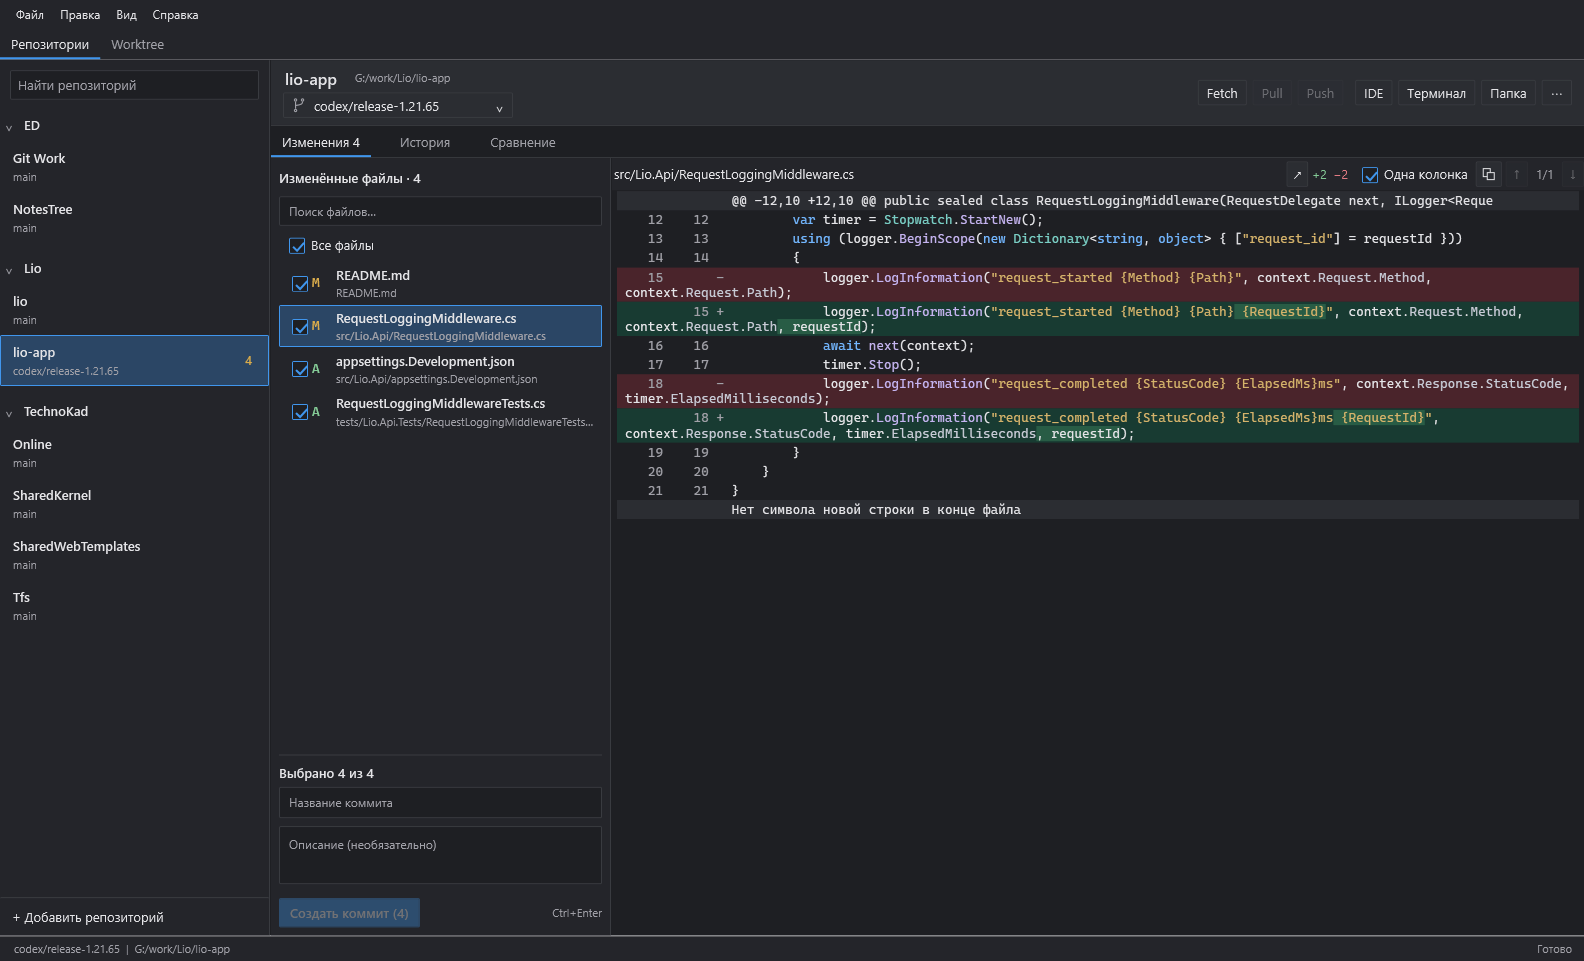
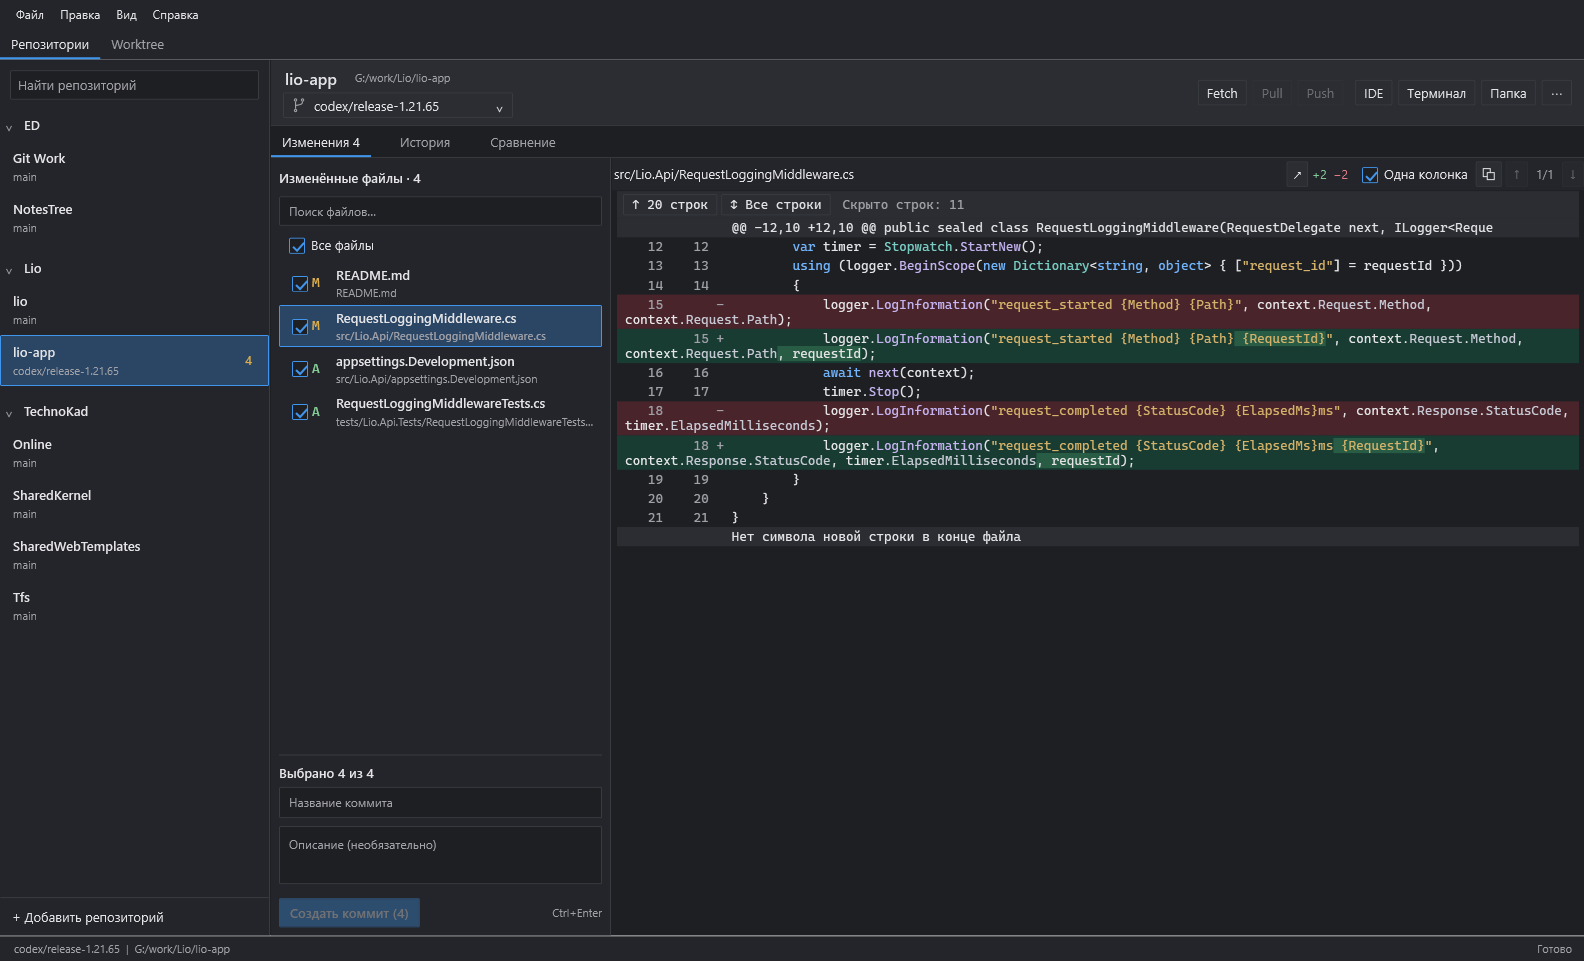
Unify file list presentation across Git views in 0.3.5

Changed region(s): [[0.3712, 0.1873, 1.0, 0.5307], [0.464, 0.5307, 0.6496, 0.5619]]

diff --git a/src/GitWork.App/BranchComparisonView.xaml b/src/GitWork.App/BranchComparisonView.xaml
@@ -32,7 +32,7 @@
     </DockPanel>
     <Grid Grid.Row="3">
       <Grid.ColumnDefinitions>
-        <ColumnDefinition Width="250" MinWidth="180" />
+        <ColumnDefinition Width="320" MinWidth="250" />
         <ColumnDefinition Width="7" />
         <ColumnDefinition Width="*" MinWidth="200" />
       </Grid.ColumnDefinitions>
@@ -60,13 +60,8 @@
           </TextBlock>
         </Grid>
         <Grid Grid.Row="2">
-          <ListBox x:Name="FilesList" SelectionChanged="FilesList_SelectionChanged" AutomationProperties.Name="{local:Loc 'Изменённые между ветками файлы'}" VirtualizingPanel.IsVirtualizingWhenGrouping="True" VirtualizingPanel.IsVirtualizing="True" ScrollViewer.CanContentScroll="True">
-            <ListBox.ItemContainerStyle><Style TargetType="ListBoxItem" BasedOn="{StaticResource FileRow}"><Setter Property="Tag" Value="{Binding StatusDescription}" /></Style></ListBox.ItemContainerStyle>
-            <ListBox.ItemTemplate>
-              <DataTemplate>
-                <TextBlock Text="{Binding DisplayPath}" TextWrapping="Wrap" />
-              </DataTemplate>
-            </ListBox.ItemTemplate>
+          <ListBox x:Name="FilesList" SelectionChanged="FilesList_SelectionChanged" ItemTemplate="{StaticResource ChangedFileTemplate}" AutomationProperties.Name="{local:Loc 'Изменённые между ветками файлы'}" VirtualizingPanel.IsVirtualizingWhenGrouping="True" VirtualizingPanel.IsVirtualizing="True" ScrollViewer.CanContentScroll="True">
+            <ListBox.ItemContainerStyle><Style TargetType="ListBoxItem" BasedOn="{StaticResource FileRow}"><Setter Property="Tag" Value="{Binding StatusDescription}" /><Setter Property="ToolTip" Value="{Binding DisplayPath}" /></Style></ListBox.ItemContainerStyle>
           </ListBox>
           <TextBlock x:Name="EmptyFilesText" Text="{local:Loc 'Нет изменений файлов'}" Foreground="{DynamicResource MutedBrush}" Margin="12" Visibility="Collapsed" IsHitTestVisible="False" />
         </Grid>

diff --git a/src/GitWork.App/ChangesView.xaml b/src/GitWork.App/ChangesView.xaml
@@ -24,13 +24,9 @@
             <ListBox.ItemTemplate>
               <DataTemplate>
                 <Grid>
-                  <Grid.ColumnDefinitions><ColumnDefinition Width="26" /><ColumnDefinition Width="24" /><ColumnDefinition /></Grid.ColumnDefinitions>
+                  <Grid.ColumnDefinitions><ColumnDefinition Width="26" /><ColumnDefinition /></Grid.ColumnDefinitions>
                   <CheckBox IsChecked="{Binding IsIncluded,Mode=TwoWay,UpdateSourceTrigger=PropertyChanged}" VerticalAlignment="Center" ToolTip="{local:Loc 'Включить файл целиком в коммит'}" AutomationProperties.Name="{Binding File.DisplayPath}" />
-                  <TextBlock Grid.Column="1" Text="{Binding StatusCode}" FontFamily="Consolas" FontSize="14" FontWeight="SemiBold" VerticalAlignment="Center" />
-                  <StackPanel Grid.Column="2" VerticalAlignment="Center">
-                    <TextBlock Text="{Binding FileName}" Foreground="{DynamicResource TextBrush}" FontSize="13" FontWeight="SemiBold" TextWrapping="NoWrap" TextTrimming="CharacterEllipsis" />
-                    <TextBlock Text="{Binding File.DisplayPath}" Foreground="{DynamicResource MutedBrush}" FontSize="11" Margin="0,2,0,0" TextWrapping="NoWrap" TextTrimming="CharacterEllipsis" />
-                  </StackPanel>
+                  <ContentControl Grid.Column="1" Content="{Binding File}" ContentTemplate="{StaticResource ChangedFileTemplate}" />
                 </Grid>
               </DataTemplate>
             </ListBox.ItemTemplate>

diff --git a/src/GitWork.App/App.xaml b/src/GitWork.App/App.xaml
@@ -315,6 +315,16 @@
           </Setter.Value>
         </Setter>
       </Style>
+      <DataTemplate x:Key="ChangedFileTemplate">
+        <Grid ToolTip="{Binding DisplayPath}">
+          <Grid.ColumnDefinitions><ColumnDefinition Width="24" /><ColumnDefinition /></Grid.ColumnDefinitions>
+          <TextBlock Text="{Binding StatusCode}" Foreground="{Binding Foreground,RelativeSource={RelativeSource AncestorType=ListBoxItem}}" FontFamily="Consolas" FontSize="14" FontWeight="SemiBold" VerticalAlignment="Center" />
+          <StackPanel Grid.Column="1" VerticalAlignment="Center">
+            <TextBlock Text="{Binding FileName}" Foreground="{DynamicResource TextBrush}" FontSize="13" FontWeight="SemiBold" TextWrapping="NoWrap" TextTrimming="CharacterEllipsis" />
+            <TextBlock Text="{Binding DisplayPath}" Foreground="{DynamicResource MutedBrush}" FontSize="11" Margin="0,2,0,0" TextWrapping="NoWrap" TextTrimming="CharacterEllipsis" />
+          </StackPanel>
+        </Grid>
+      </DataTemplate>
       <Style x:Key="FileRow" TargetType="ListBoxItem" BasedOn="{StaticResource {x:Type ListBoxItem}}">
         <Setter Property="Padding" Value="6,3" />
         <Setter Property="Margin" Value="0,0,0,1" />

diff --git a/src/GitWork.App/GitHistoryView.xaml b/src/GitWork.App/GitHistoryView.xaml
@@ -199,14 +199,7 @@
                   <Setter Property="Margin" Value="0" />
                 </Style>
               </ListBox.ItemContainerStyle>
-              <ListBox.ItemTemplate>
-                <DataTemplate>
-                  <DockPanel ToolTip="{Binding DisplayPath}">
-                    <Border DockPanel.Dock="Left" Background="{DynamicResource AccentSurfaceBrush}" Padding="3,0" Margin="0,0,5,0" VerticalAlignment="Top"><TextBlock Text="{Binding StatusCode}" Foreground="{DynamicResource AccentBrush}" FontSize="10" FontWeight="SemiBold" /></Border>
-                    <TextBlock Text="{Binding DisplayPath}" TextWrapping="NoWrap" TextTrimming="CharacterEllipsis" FontSize="12" />
-                  </DockPanel>
-                </DataTemplate>
-              </ListBox.ItemTemplate>
+              <ListBox.ItemTemplate><DataTemplate><ContentControl Content="{Binding File}" ContentTemplate="{StaticResource ChangedFileTemplate}" /></DataTemplate></ListBox.ItemTemplate>
             </ListBox>
           </Grid>
           <GridSplitter Grid.Column="1" Width="5" HorizontalAlignment="Stretch" Background="{DynamicResource BackgroundBrush}" ResizeDirection="Columns" ResizeBehavior="PreviousAndNext" />

diff --git a/tests/GitWork.UiChecks/DesignPreview.cs b/tests/GitWork.UiChecks/DesignPreview.cs
@@ -100,6 +100,22 @@ internal static class DesignPreview
                     ((TextBox)window.FindName("ContextStatusText")).Text = "codex/release-1.21.65  |  " + displayPath;
                     DesignPreview.Capture(window, Path.Combine(screenshots, "history.png"));
 
+                    ((RadioButton)client.FindName("ComparisonTab")).IsChecked = true;
+                    await DesignPreview.WaitUntilAsync(() => client.FindName("ViewHost") is ContentControl { Content: BranchComparisonView });
+                    var comparison = (BranchComparisonView)((ContentControl)client.FindName("ViewHost")).Content;
+                    await DesignPreview.WaitUntilAsync(() => comparison.References.Any(reference => reference.Ref == "refs/heads/release/1.20.2")
+                        && ((Button)comparison.FindName("RefreshButton")).IsEnabled);
+                    ((ComboBox)comparison.FindName("BasePicker")).SelectedItem = comparison.References
+                        .Single(reference => reference.Ref == "refs/heads/release/1.20.2");
+                    await DesignPreview.WaitUntilAsync(() => ((ListBox)comparison.FindName("FilesList")).Items.Count > 0
+                        && ((DiffView)comparison.FindName("DiffViewer")).Lines.Count > 0
+                        && ((FrameworkElement)comparison.FindName("LoadingText")).Visibility == Visibility.Collapsed);
+                    ((TextBox)client.FindName("RepositoryLocation")).Text = displayPath;
+                    ((TextBox)window.FindName("ContextStatusText")).Text = "codex/release-1.21.65  |  " + displayPath;
+                    DesignPreview.Capture(window, Path.Combine(screenshots, "comparison.png"));
+                    historyTab.IsChecked = true;
+                    await DesignPreview.WaitForHistoryAsync(client);
+
                     var git = new GitService();
                     await git.RunAsync(repositoryPath, "restore", "--staged", "--worktree", "--", "README.md", "src/Lio.Api/RequestLoggingMiddleware.cs");
                     File.Delete(Path.Combine(repositoryPath, "src", "Lio.Api", "appsettings.Development.json"));

diff --git a/src/GitWork.App/ChangesView.xaml.cs b/src/GitWork.App/ChangesView.xaml.cs
@@ -467,10 +467,9 @@ public sealed class ChangeFileEntry : INotifyPropertyChanged
 
     public string FullPath => System.IO.Path.Combine(this.Source.Path, this.File.Path);
 
-    public string FileName => System.IO.Path.GetFileName(this.File.Path);
+    public string FileName => this.File.FileName;
 
-    public string StatusCode => this.File.Status == "??" ? "A"
-        : this.File.Status.Trim() is { Length: > 0 } status ? status[..1] : "M";
+    public string StatusCode => this.File.StatusCode;
 
     public bool HasStaged => this.File.Status.Length > 0 && this.File.Status[0] != ' ' && this.File.Status != "??";
 

diff --git a/src/GitWork.Core/ChangedFile.cs b/src/GitWork.Core/ChangedFile.cs
@@ -2,6 +2,11 @@ namespace GitWork.Core;
 
 public sealed record ChangedFile(string Status, string Path, string? OriginalPath)
 {
+    public string FileName => System.IO.Path.GetFileName(this.Path);
+
+    public string StatusCode => this.Status == "??" ? "A"
+        : this.Status.Trim() is { Length: > 0 } status ? status[..1] : "M";
+
     public string DisplayPath => this.OriginalPath is null ? this.Path : $"{this.OriginalPath} → {this.Path}";
 
     public string StatusDescription => this.Status.Contains('U') || this.Status is "AA" or "DD" ? "Конфликт"

diff --git a/src/GitWork.App/GraphChangedFile.cs b/src/GitWork.App/GraphChangedFile.cs
@@ -6,7 +6,7 @@ public sealed record GraphChangedFile(ChangedFile File)
 {
     public string DisplayPath => this.File.DisplayPath;
 
-    public string StatusCode => this.File.Status.Trim() is { Length: > 0 } status ? status[..1] : "M";
+    public string StatusCode => this.File.StatusCode;
 
     public string StatusLabel => L10n.T(this.StatusCode switch
     {

diff --git a/README.ru.md b/README.ru.md
@@ -7,12 +7,12 @@ Git-клиент и рабочее пространство для worktree.
 
 [English](README.md) · **Русский**
 
-![Версия](https://img.shields.io/badge/version-0.3.4-70cbbb) ![Windows](https://img.shields.io/badge/Windows-x64-58687d) [![MIT](https://img.shields.io/badge/license-MIT-70cbbb)](LICENSE)
+![Версия](https://img.shields.io/badge/version-0.3.5-70cbbb) ![Windows](https://img.shields.io/badge/Windows-x64-58687d) [![MIT](https://img.shields.io/badge/license-MIT-70cbbb)](LICENSE)
 </div>
 
 Git Work объединяет повседневную работу с Git и комплекты из нескольких репозиториев. Смотрите изменения и историю, ведите параллельные задачи в отдельных worktree и быстро находите нужную папку или ветку.
 
-Текущая стабильная версия — **0.3.4**. Загрузки и описание изменений доступны в [последнем релизе](https://github.com/eddchervov/GitWork/releases/latest).
+Текущая стабильная версия — **0.3.5**. Загрузки и описание изменений доступны в [последнем релизе](https://github.com/eddchervov/GitWork/releases/latest).
 
 ![Просмотр изменений в тёмной теме](docs/images/changes-dark.png)
 
@@ -43,6 +43,7 @@ Git Work объединяет повседневную работу с Git и к
 - Плоский интерфейс, компактные строки, широкий diff, цвета ключевых слов, типов, методов, строк и комментариев C#, число добавленных и удалённых строк.
 - В изменённых строках отдельно выделяются сами исправленные фрагменты — в одной и двух колонках. Код можно выделять и копировать; для больших замен остаётся подсветка целой строки, чтобы ограничить расчёт предпросмотра.
 - Неизменённые строки над правкой, между блоками и под ними раскрываются стрелками по 20 строк или сразу на весь промежуток. Это работает в изменениях, истории коммитов и файлов, сравнении веток — в обеих раскладках.
+- В списках файлов изменений, сравнения и истории используется один стиль: отчётливое имя файла, приглушённый путь и цветной статус. [Пример сравнения](docs/images/comparison-dark.png).
 - История расположена над файлами и diff выбранного коммита; в таблице видны сообщение, автор, дата и хеш, доступен поиск.
 
 ![История коммитов](docs/images/history-dark.png)
@@ -105,7 +106,7 @@ dotnet run --project tests/GitWork.UiChecks/GitWork.UiChecks.csproj
 Установщик и файлы обновлений:
 
 ~~~powershell
-./tools/Build-Release.ps1 -Version 0.3.4
+./tools/Build-Release.ps1 -Version 0.3.5
 ~~~
 
 Процесс выпуска описан в [Releasing](docs/RELEASING.md). Сборка ничего не публикует.

diff --git a/README.md b/README.md
@@ -7,12 +7,12 @@ A focused Git client. A home for your worktrees.
 
 **English** · [Русский](README.ru.md)
 
-![Version](https://img.shields.io/badge/version-0.3.4-70cbbb) ![Windows](https://img.shields.io/badge/Windows-x64-58687d) [![License: MIT](https://img.shields.io/badge/license-MIT-70cbbb)](LICENSE)
+![Version](https://img.shields.io/badge/version-0.3.5-70cbbb) ![Windows](https://img.shields.io/badge/Windows-x64-58687d) [![License: MIT](https://img.shields.io/badge/license-MIT-70cbbb)](LICENSE)
 </div>
 
 Git Work brings everyday Git and multi-repository workspaces into one Windows app. Review changes, follow history, and keep parallel tasks in separate worktrees without losing track of their folders or branches.
 
-The current stable release is **0.3.4**. See [the latest release](https://github.com/eddchervov/GitWork/releases/latest) for downloads and release notes.
+The current stable release is **0.3.5**. See [the latest release](https://github.com/eddchervov/GitWork/releases/latest) for downloads and release notes.
 
 ![Review changes in the dark theme](docs/images/changes-dark.png)
 
@@ -43,6 +43,7 @@ The Repositories and Worktree tabs keep their selected views independently; Repo
 - A flat interface with compact rows, a wide diff, C# syntax colors for keywords, types, methods, strings and comments, plus addition/deletion counts.
 - Changed fragments stand out inside modified lines in both unified and side-by-side diffs. Code remains selectable and copyable; large replacements keep whole-line highlighting to bound preview work.
 - Expand unchanged lines above, between and below diff blocks, 20 at a time or the whole gap. The same controls work in Changes, commit history, file history and branch comparison, in both layouts.
+- File lists in Changes, comparison and history share a clear filename, muted path and colored status marker. [Comparison preview](docs/images/comparison-dark.png).
 - History above the selected commit's files and diff, with message, author, date, hash and commit search.
 
 ![Explore the commit history](docs/images/history-dark.png)
@@ -105,7 +106,7 @@ dotnet run --project tests/GitWork.UiChecks/GitWork.UiChecks.csproj
 Build the self-contained installer and update feed:
 
 ~~~powershell
-./tools/Build-Release.ps1 -Version 0.3.4
+./tools/Build-Release.ps1 -Version 0.3.5
 ~~~
 
 See [Releasing](docs/RELEASING.md) for the draft-release workflow and the files that must be published together. Building does not publish anything.

diff --git a/docs/RELEASING.md b/docs/RELEASING.md
@@ -8,10 +8,10 @@ Git Work distributes Velopack packages through the existing [eddchervov/GitWork]
 2. On Windows, build locally with .NET SDK 10 and Git for Windows:
 
    ```powershell
-   ./tools/Build-Release.ps1 -Version 0.3.4
+   ./tools/Build-Release.ps1 -Version 0.3.5
    ```
 
-3. Review the generated packages and feed files under `artifacts/releases/0.3.4`.
+3. Review the generated packages and feed files under `artifacts/releases/0.3.5`.
 4. Upload every generated file to the matching GitHub release. The stable update feed requires the feed JSON and full package; Setup.exe alone is not enough for in-app updates.
 
 The release includes the generated stable feed files `assets.win-x64-stable.json`, `releases.win-x64-stable.json`, and `RELEASES-win-x64-stable`, plus the `.nupkg` package, Setup, Portable package, and `SHA256SUMS.txt`. Keep the generated filenames intact.

diff --git a/RELEASE_NOTES.md b/RELEASE_NOTES.md
@@ -1,5 +1,6 @@
-# Git Work 0.3.4
+# Git Work 0.3.5
 
+- Unify file rows across Changes, branch comparison and commit history: a clear filename, muted path and a colored status marker.
 - Expand unchanged lines above, between and below diff blocks with arrow controls: 20 lines at a time or all lines in a gap.
 - Use the same context controls in Changes, commit history, file history and branch comparison, in unified and side-by-side layouts.
 - Read context from the exact compared revisions and reject stale working-copy context instead of mixing file versions.
